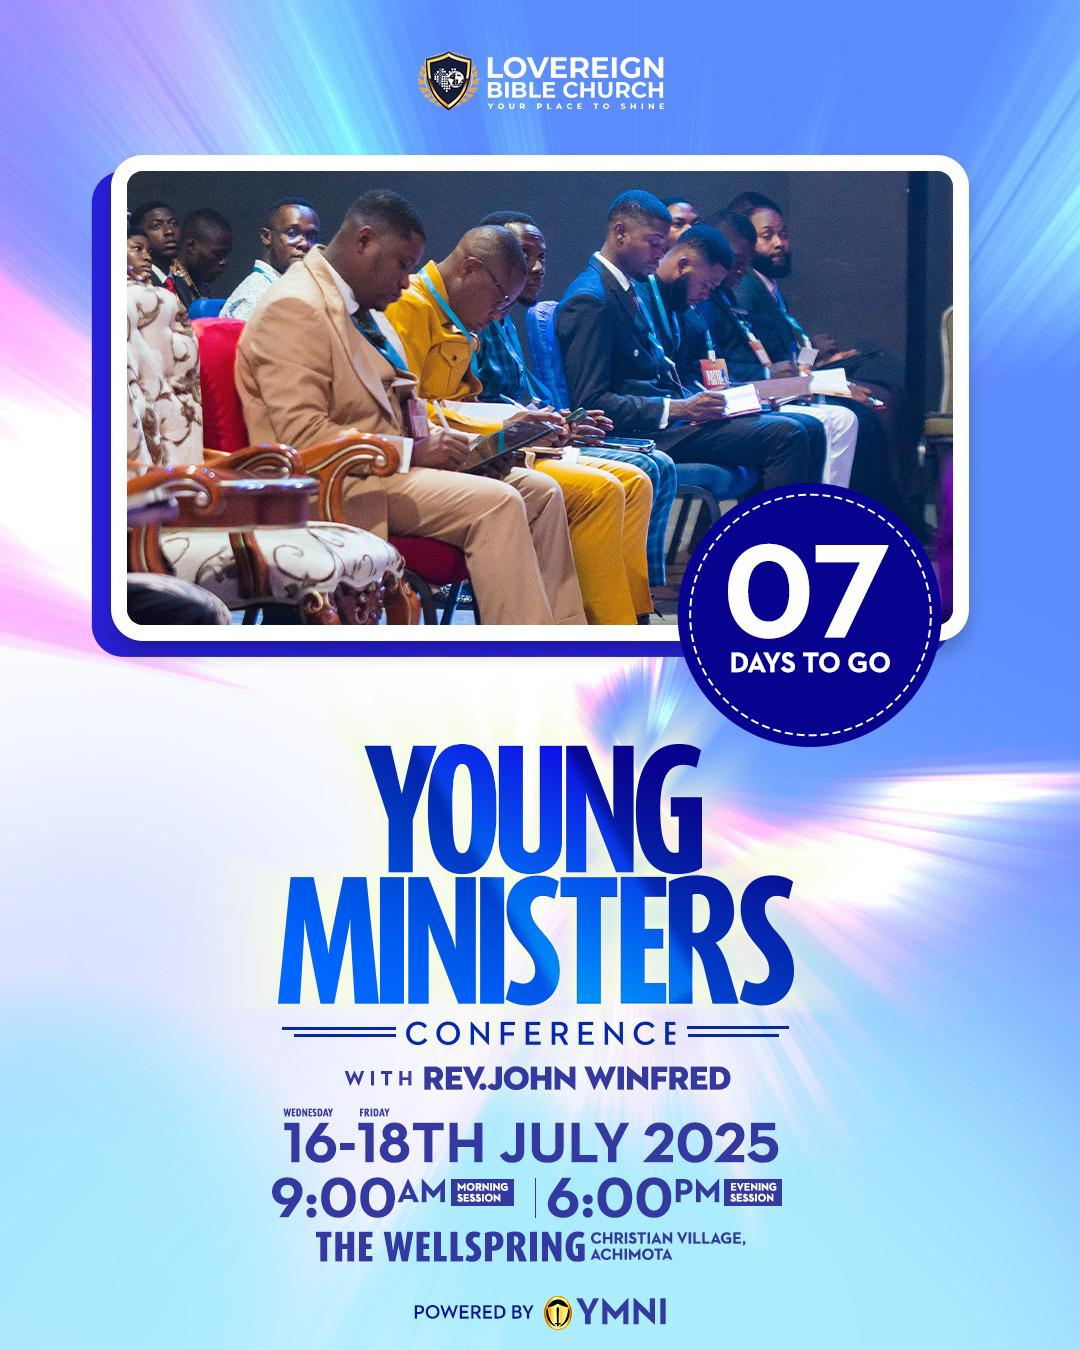
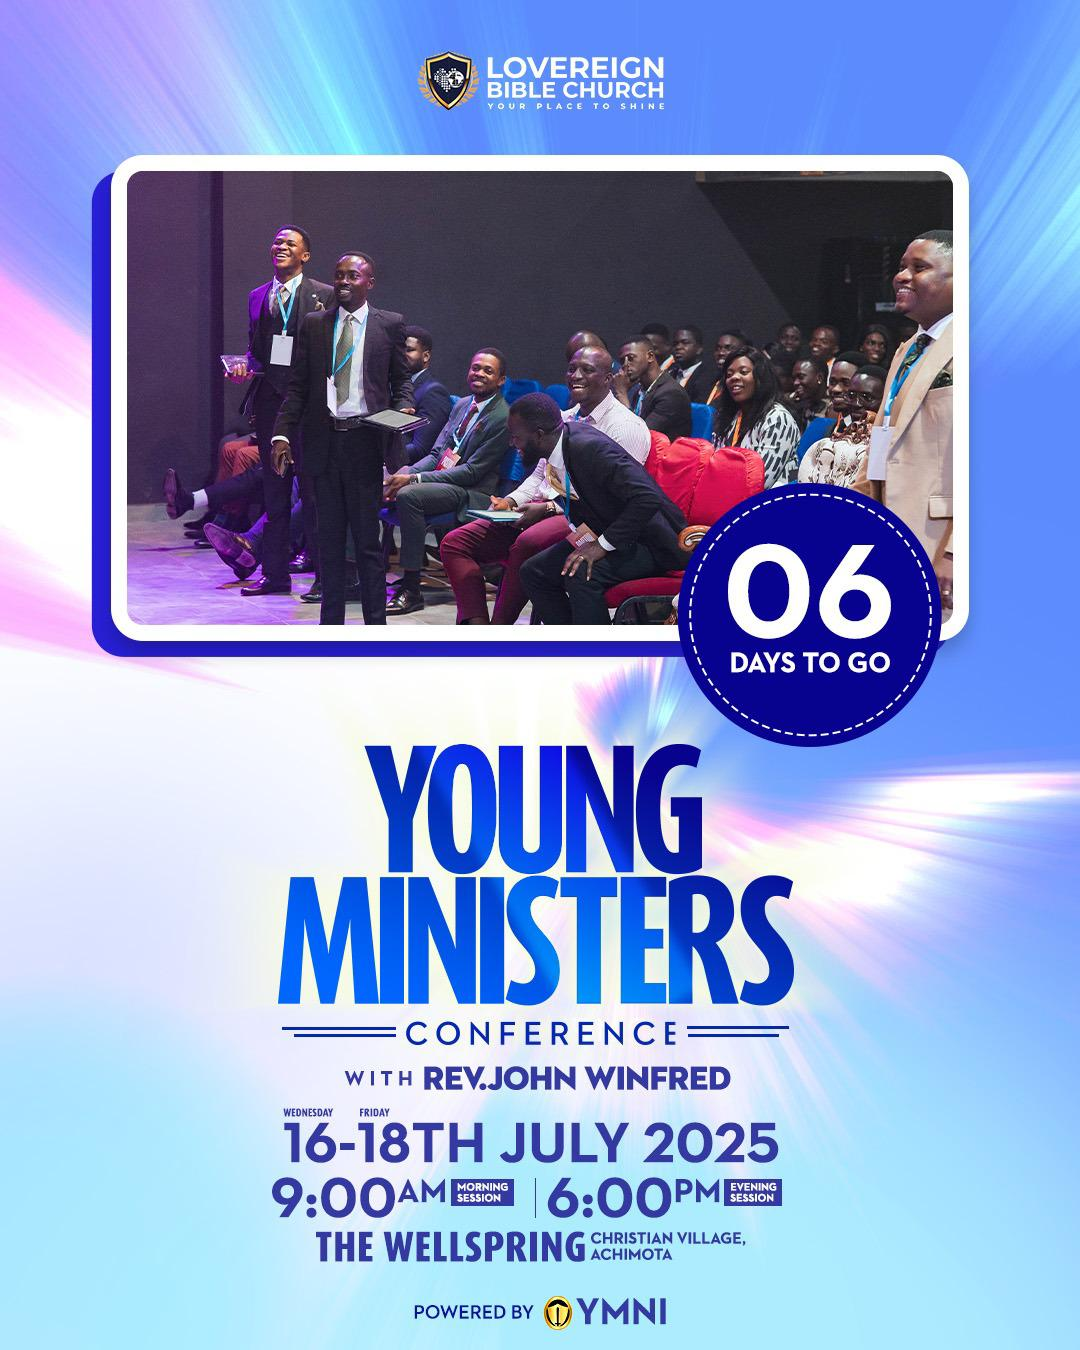
he

Changed region(s): [[0.0917, 0.1244, 0.8861, 0.4667], [0.7333, 0.4044, 0.825, 0.4978]]

diff --git a/dist/index.html b/dist/index.html
@@ -8,7 +8,7 @@
     <link rel="preconnect" href="https://fonts.gstatic.com" crossorigin>
     <link href="https://fonts.googleapis.com/css2?family=Didact+Gothic&family=Mukta:wght@200;300;400;500;600;700;800&display=swap" rel="stylesheet">
     <title>Lovereign Bible Church</title>
-    <script type="module" crossorigin src="/assets/index-Bs7h_u3v.js"></script>
+    <script type="module" crossorigin src="/assets/index-DEAQC9om.js"></script>
     <link rel="modulepreload" crossorigin href="/assets/vendor-DeqkGhWy.js">
     <link rel="stylesheet" crossorigin href="/assets/index-_UG1GFjJ.css">
   </head>
